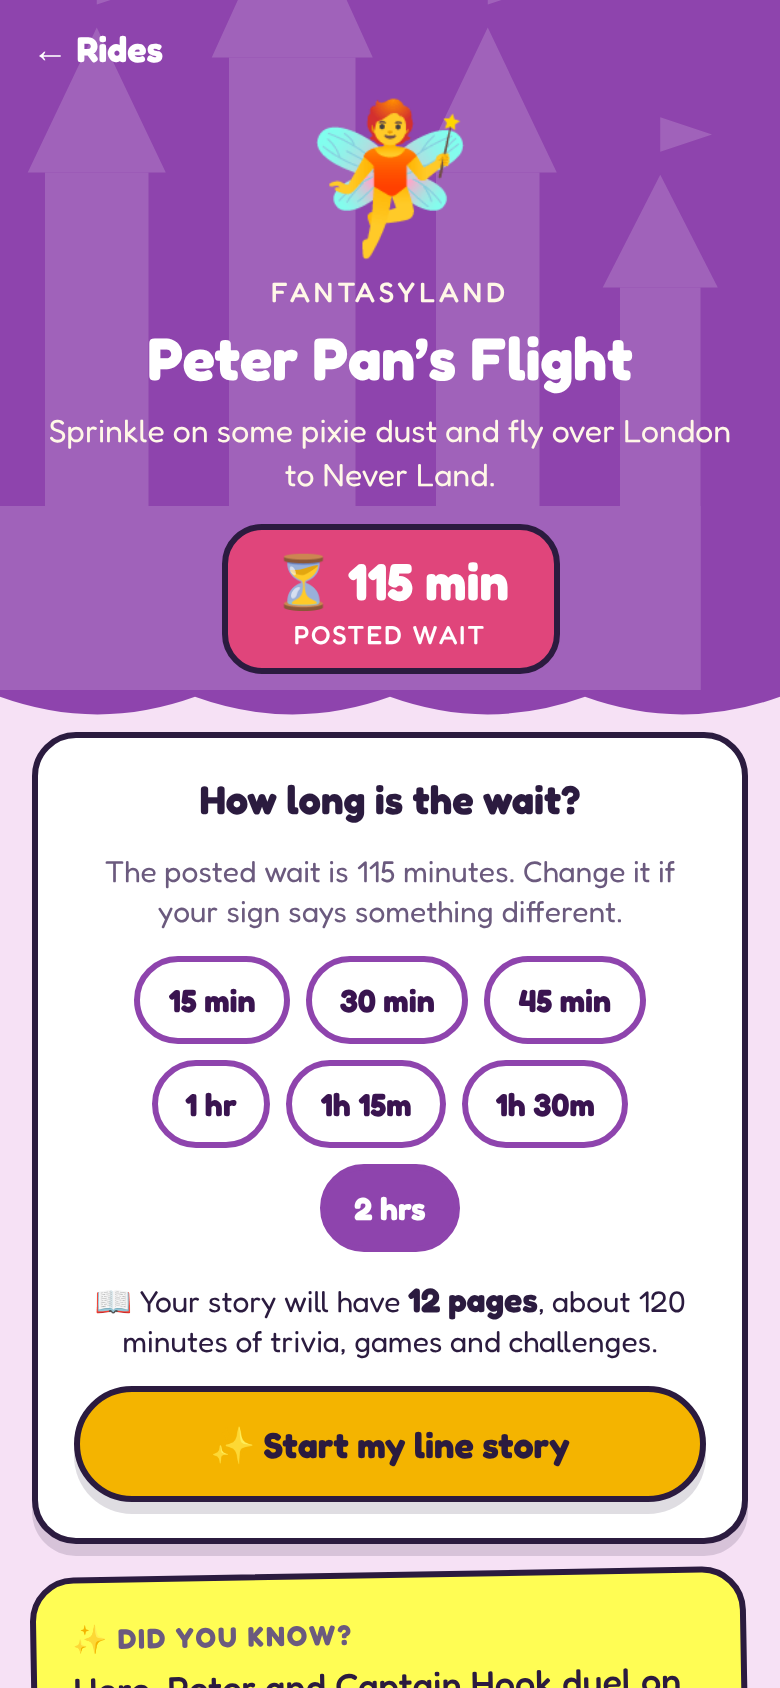
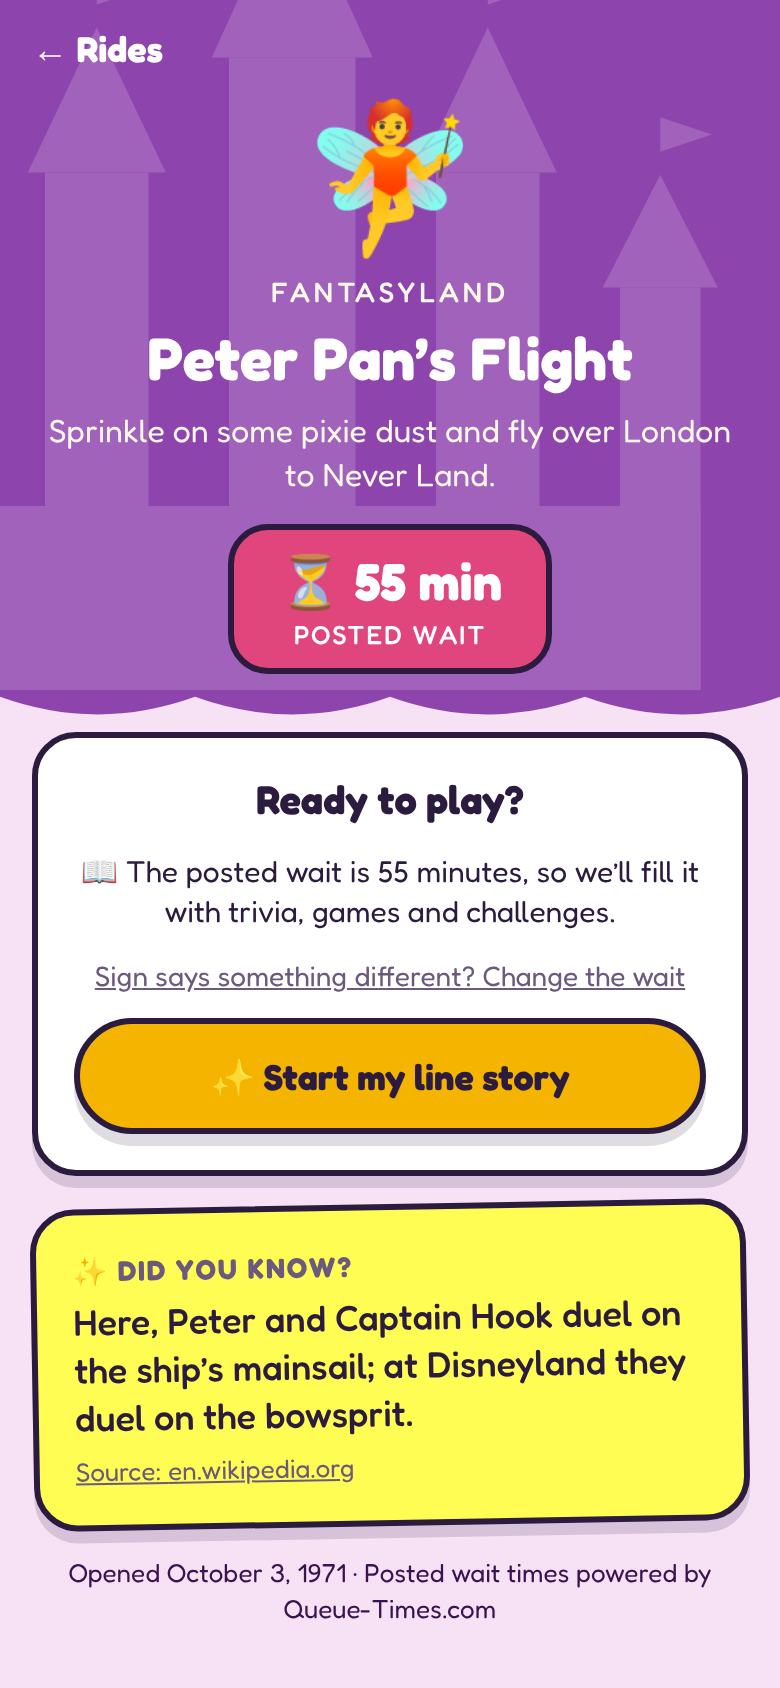
Start uses the posted wait; picking a wait is optional
The ride page no longer asks how long the wait is. Start uses the posted
wait, and a small "Change the wait" link opens the choices if the sign
says something different or the posted wait can't load.

Claude-Session: https://claude.ai/code/session_011XPjN4JHJbjTbiA4cyU9EL

diff --git a/src/app/attraction/[id].tsx b/src/app/attraction/[id].tsx
@@ -15,9 +15,6 @@ import { colors, MAX_WIDTH, pageShadow } from '@/theme';
 
 const WAIT_CHOICES = [15, 30, 45, 60, 75, 90, 120];
 
-const closestChoice = (minutes: number) =>
-  WAIT_CHOICES.reduce((best, m) => (Math.abs(m - minutes) < Math.abs(best - minutes) ? m : best), WAIT_CHOICES[0]);
-
 export default function RideIntro() {
   const { id } = useLocalSearchParams<{ id: string }>();
   const ref = getAttraction(id);
@@ -25,6 +22,7 @@ export default function RideIntro() {
   const [posted, setPosted] = useState<PostedWait>();
   const [wait, setWait] = useState(30);
   const [touched, setTouched] = useState(false);
+  const [changing, setChanging] = useState(false);
 
   useEffect(() => {
     const qt = ref?.park.queueTimesId;
@@ -32,7 +30,7 @@ export default function RideIntro() {
     fetchPostedWaits(qt).then((waits) => {
       const w = findWait(waits, ref.attraction.name);
       setPosted(w);
-      if (w?.open && w.minutes > 0 && !touched) setWait(closestChoice(w.minutes));
+      if (w?.open && w.minutes > 0 && !touched) setWait(w.minutes);
     });
     // Only on first load; later taps on the chips win.
     // eslint-disable-next-line react-hooks/exhaustive-deps
@@ -115,39 +113,44 @@ export default function RideIntro() {
           ) : (
             <View style={[styles.box, pageShadow]}>
               <Txt weight="bold" size={20} style={{ textAlign: 'center' }}>
-                How long is the wait?
+                Ready to play?
               </Txt>
-              <Txt size={15} color={colors.inkSoft} style={{ textAlign: 'center' }}>
-                {posted?.open
-                  ? `The posted wait is ${posted.minutes} minutes. Change it if your sign says something different.`
-                  : 'Check the sign at the entrance and pick the closest time.'}
-              </Txt>
-              <View style={styles.chips}>
-                {WAIT_CHOICES.map((m) => {
-                  const on = m === wait;
-                  return (
-                    <Pressable
-                      key={m}
-                      accessibilityRole="radio"
-                      accessibilityState={{ selected: on }}
-                      accessibilityLabel={m >= 60 ? `${m / 60} hour${m > 60 ? 's' : ''}` : `${m} minutes`}
-                      onPress={() => {
-                        tap();
-                        setTouched(true);
-                        setWait(m);
-                      }}
-                      style={[styles.chip, { backgroundColor: on ? c.ground : colors.white, borderColor: c.ground }]}>
-                      <Txt weight="bold" size={16} color={on ? colors.white : c.ink}>
-                        {label(m)}
-                      </Txt>
-                    </Pressable>
-                  );
-                })}
-              </View>
               <Txt size={15} style={{ textAlign: 'center' }}>
-                📖 We’ll fill your <Txt weight="bold">{label(wait)}</Txt> wait with one long scroll of trivia, games and
-                challenges.
+                {posted?.open && posted.minutes > 0 && !touched
+                  ? `📖 The posted wait is ${posted.minutes} minutes, so we’ll fill it with trivia, games and challenges.`
+                  : `📖 We’ll fill about ${label(wait)} with trivia, games and challenges, and keep going if the line is slower.`}
               </Txt>
+              {changing ? (
+                <View style={styles.chips}>
+                  {WAIT_CHOICES.map((m) => {
+                    const on = m === wait;
+                    return (
+                      <Pressable
+                        key={m}
+                        accessibilityRole="radio"
+                        accessibilityState={{ selected: on }}
+                        accessibilityLabel={m >= 60 ? `${m / 60} hour${m > 60 ? 's' : ''}` : `${m} minutes`}
+                        onPress={() => {
+                          tap();
+                          setTouched(true);
+                          setWait(m);
+                          setChanging(false);
+                        }}
+                        style={[styles.chip, { backgroundColor: on ? c.ground : colors.white, borderColor: c.ground }]}>
+                        <Txt weight="bold" size={16} color={on ? colors.white : c.ink}>
+                          {label(m)}
+                        </Txt>
+                      </Pressable>
+                    );
+                  })}
+                </View>
+              ) : (
+                <Pressable accessibilityRole="button" onPress={() => setChanging(true)} style={{ alignSelf: 'center' }}>
+                  <Txt size={14} color={colors.inkSoft} style={{ textDecorationLine: 'underline' }}>
+                    Sign says something different? Change the wait
+                  </Txt>
+                </Pressable>
+              )}
               {elsewhere && (
                 <Txt size={13} color={colors.inkSoft} style={{ textAlign: 'center' }}>
                   This ends your line story for {elsewhere.name}.

diff --git a/README.md b/README.md
@@ -16,7 +16,7 @@ Built for kids, families and grown-ups who still feel like kids. Runs on iPhone,
 ## What's inside
 
 - **Pick your ride**: every ride in the park, grouped by land, with the posted wait time in big colored badges (green for short, gold for medium, pink for long). Waits come from [Queue-Times.com](https://queue-times.com).
-- **Stories sized to your wait**: choose your wait (15 minutes to 2 hours, preset from the posted wait) and the app fills it with one continuous scroll of quests. It starts with quests about your ride, then mixes in trivia about nearby rides and the park with play-anywhere games. Every quest is open to play in any order, and more keep appearing as you scroll.
+- **Stories sized to your wait**: the app uses the posted wait (or one you pick if the sign says something different) and fills it with one continuous scroll of quests. It starts with quests about your ride, then mixes in trivia about nearby rides and the park with play-anywhere games. Every quest is open to play in any order, and more keep appearing as you scroll.
 - **Eight quest types**: Trivia, Fact or Fiction, Guess the Number, Put in Order, Emoji Riddles, I Spy, Would You Rather and Group Challenges.
 - **Keepsakes and My Journey**: tap "We're boarding!" and the ride becomes a keepsake card with your wait, stars, a fact you learned, a rating and a memory. Share it as a picture with a caption and hashtags (#dislizney #LineTimeAdventures and the park and ride), or share your whole day from the My Journey scrapbook.
 - **Storybook flair**: each land has its own illustrated skyline, with sound effects, star bursts and a fanfare when you finish a ride. Sounds can be muted from the cover and respect the phone's silent switch.
